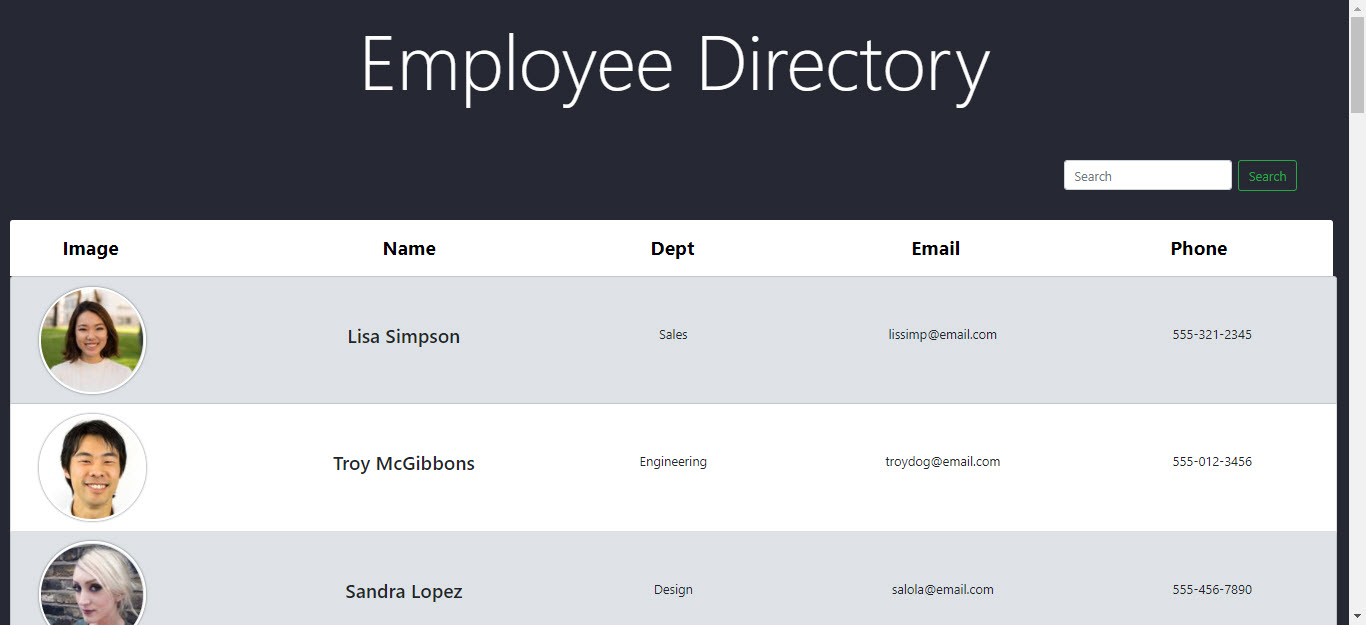
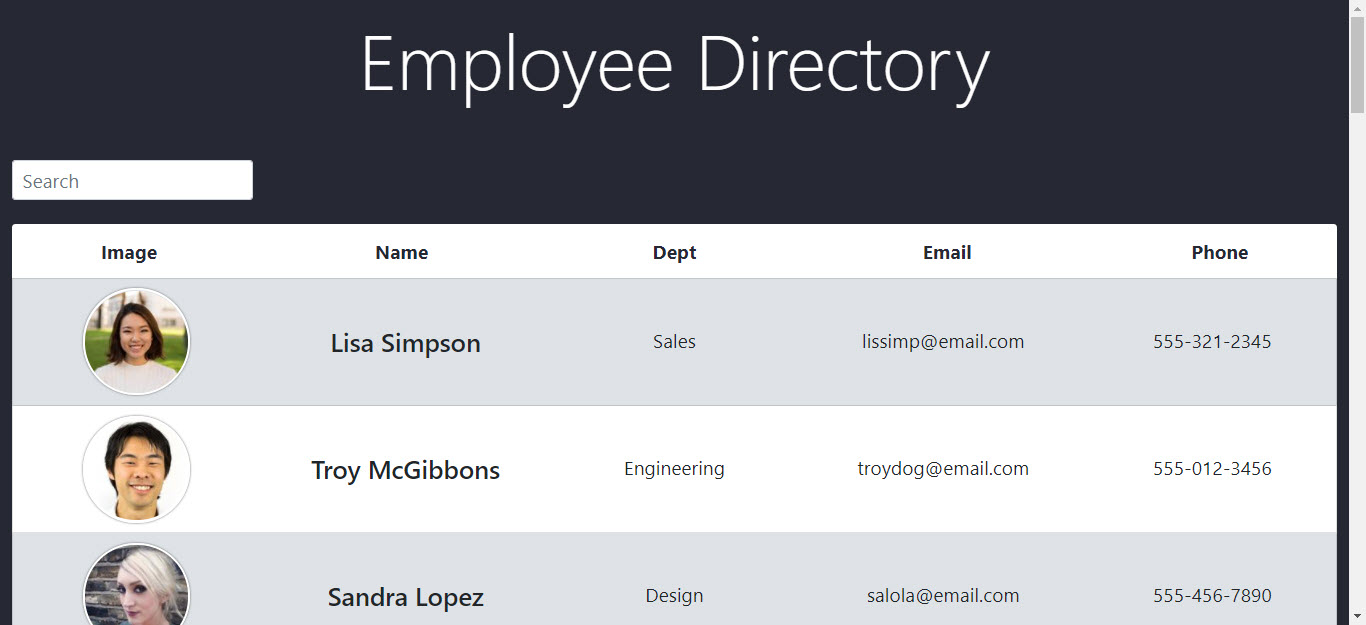
Fixed some styling and cleaned up stuff

diff --git a/src/components/ListHeader.js b/src/components/ListHeader.js
@@ -1,30 +1,52 @@
-import React from 'react'
-import '../../src/components/listHeader.css'
+import React from "react";
+import "../../src/components/listHeader.css";
 
 function ListHeader(props) {
-    return (
-        <div className="row col-12 list-header">
-            <ul className="list-group list-group-header">
-                <li className="list-group-header col-12">
-                    <div className="col-2">
-                        <button className="btn btn-dark text-center" onClick={props.sortID}>Image</button>
-                    </div>
-                    <div className="col-3">
-                        <button className="btn btn-dark text-center list-title" onClick={props.sortName} >Name</button>
-                    </div>
-                    <div className="col-2">
-                        <button className="btn btn-dark text-center list-title" onClick={props.sortDept}>Dept</button>
-                    </div>
-                    <div className="col-3">
-                        <button className="btn btn-dark text-center list-title" onClick={props.sortEmail}>Email</button>
-                    </div>
-                    <div className="col-2">
-                        <button className="btn btn-dark text-center list-title" onClick={props.sortPhone}>Phone</button>
-                    </div>
-                </li>
-            </ul>
-        </div >
-    )
+  return (
+    <div className="container col-12 list-header">
+      <ul className="list-group list-group-header">
+        <li className="list-group-header col-12">
+          <div className="col-2">
+            <button className="btn btn-dark text-center" onClick={props.sortID}>
+              Image
+            </button>
+          </div>
+          <div className="col-3">
+            <button
+              className="btn btn-dark text-center list-title"
+              onClick={props.sortName}
+            >
+              Name
+            </button>
+          </div>
+          <div className="col-2">
+            <button
+              className="btn btn-dark text-center list-title"
+              onClick={props.sortDept}
+            >
+              Dept
+            </button>
+          </div>
+          <div className="col-3">
+            <button
+              className="btn btn-dark text-center list-title"
+              onClick={props.sortEmail}
+            >
+              Email
+            </button>
+          </div>
+          <div className="col-2">
+            <button
+              className="btn btn-dark text-center list-title"
+              onClick={props.sortPhone}
+            >
+              Phone
+            </button>
+          </div>
+        </li>
+      </ul>
+    </div>
+  );
 }
 
-export default ListHeader
+export default ListHeader;

diff --git a/src/components/listHeader.css b/src/components/listHeader.css
@@ -1,53 +1,44 @@
-.list-group-item{
-    display: block;
-    margin: 0 auto;
-    width: 100%;
-    background-color: #fff;
-  }
-  
-  .col-2, .col-3{
-    float: left;
-    /* margin: 0; */
-  }
-  
-  .list-header{
-    margin-top: 75px;
-    padding-right: 0px;
-    height: 70px;
-
-  }
-
-  
-
-  .list-group-header {
-  width: 99%;
-  background: #fff;
-  list-style: none;
-  padding-top: 5px;
-  margin-left: 12px;
-  padding-right: 16px;
-  border-bottom-right-radius: 0px;
-  border-bottom-left-radius: 0px;
+.list-group-item {
+  display: block;
+  margin: 0 auto;
+  width: 100%;
+  background-color: #fff;
 }
 
-  .list-heading{
-      font-size: 24px;
-      padding-left: 18px;
-  }
+.col-2,
+.col-3 {
+  float: left;
+}
 
-  .btn-dark{
-    /* display: block;
-    margin: 0 auto;
-    width: 100%; */
-    font-size: 24px;
-    font-weight: bolder;
-    background-color: transparent;
-    color: black;
-    border: none;
-  }
+.list-header {
+  margin-top: 30px;
+}
 
-  .list-title{
-    display: block;
-    margin: 0 auto;
-    width: 100%; 
-  }
+.list-group-header {
+  background: #fff;
+  list-style: none;
+  padding: 5px;
+  border-bottom-right-radius: 0px;
+  border-bottom-left-radius: 0px;
+  border-top-left-radius: 5px;
+  border-top-right-radius: 5px;
+}
+
+.list-heading {
+  font-size: 24px;
+  padding-left: 18px;
+}
+
+.btn-dark {
+  font-size: 24px;
+  font-weight: bolder;
+  background-color: transparent;
+  color: #262833;
+  border: none;
+}
+
+.list-title {
+  display: block;
+  margin: 0 auto;
+  width: 100%;
+}

diff --git a/src/components/EmployeeDetail.js b/src/components/EmployeeDetail.js
@@ -1,30 +1,26 @@
 import React from "react";
-import "./style.css"
-
+import "./style.css";
 
 function EmployeeDetail(props) {
-    return (
-        
-        <li className="list-group-item">
-            <div className="col-2">
-                <img src={props.image} alt="employee" />
-            </div>
-            <div className="col-3 text">
-                <h2 className="employee-name text-center">{props.name}</h2>
-            </div>
-            <div className="col-2 text">
-                <p className="text-center">{props.department}</p>
-            </div>
-            <div className="col-3 text">
-                <p className="text-center">{props.email}</p>
-            </div>
-            <div className="col-2 text">
-                <p className="text-center">{props.phone}</p>
-            </div>
-        </li>
-        
-
-    )
+  return (
+    <li className="list-group-item">
+      <div className="col-2">
+        <img src={props.image} alt="employee" />
+      </div>
+      <div className="col-3 text">
+        <h2 className="employee-name text-center">{props.name}</h2>
+      </div>
+      <div className="col-2 text">
+        <p className="text-center">{props.department}</p>
+      </div>
+      <div className="col-3 text">
+        <p className="text-center">{props.email}</p>
+      </div>
+      <div className="col-2 text">
+        <p className="text-center">{props.phone}</p>
+      </div>
+    </li>
+  );
 }
 
-export default EmployeeDetail
+export default EmployeeDetail;

diff --git a/src/components/style.css b/src/components/style.css
@@ -1,32 +1,55 @@
-.list-group-item{
+.employee-header {
+  height: 200px;
+  background: #262833;
+  color: white;
+}
+
+.header-title {
+  padding-top: 15px;
+}
+
+.form-control {
+  height: 50px;
+  width: 30%;
+  font-size: 24px;
+}
+
+.list-group-item {
   display: block;
   margin: 0 auto;
   width: 100%;
 }
 
-.list-group-item:nth-child(odd){
+.list-group-item:nth-child(odd) {
   background-color: #dee2e6;
 }
 
-.col-2, .col-3{
+.col-2,
+.col-3 {
   float: left;
-  /* margin: 0; */
 }
 
-.text{
-  top: 35%
-}
-
-.employee-name{
-  font-size: 24px;
+.text {
+  top: 35%;
 }
 
 .list-group {
-  padding-left: 12px;
+  padding-left: 15px;
+  border-radius: 0px;
 }
 
-img{
+img {
   border-radius: 50%;
   box-shadow: 0px 0px 3px #696969;
-    border: 3px solid white
+  border: 3px solid white;
+  display: block;
+  margin: 0 auto;
+}
+
+.btn-dark {
+  width: 100%;
+}
+
+.btn-dark:hover {
+  width: 100%;
 }

diff --git a/src/components/EmployeeContainer.js b/src/components/EmployeeContainer.js
@@ -3,7 +3,6 @@ import EmployeeDetail from "./EmployeeDetail";
 import employees from "../employees.json";
 import ListHeader from "./ListHeader";
 import Header from "./Header";
-import "../components/search.css";
 
 class Employees extends Component {
   state = {
@@ -212,13 +211,6 @@ class Employees extends Component {
               value={this.state.search}
               onChange={this.handleInputChange}
             />
-            <button
-              className="btn btn-outline-success my-2 my-sm-0"
-              type="submit"
-              onClick={this.handleFormSubmit}
-            >
-              Search
-            </button>
           </form>
         </div>
         <ListHeader

diff --git a/src/index.js b/src/index.js
@@ -1,14 +1,14 @@
-import React from 'react';
-import ReactDOM from 'react-dom';
-import './index.css';
-import App from './App';
-import reportWebVitals from './reportWebVitals';
+import React from "react";
+import ReactDOM from "react-dom";
+import "./index.css";
+import App from "./App";
+import reportWebVitals from "./reportWebVitals";
 
 ReactDOM.render(
   <React.StrictMode>
     <App />
   </React.StrictMode>,
-  document.getElementById('root')
+  document.getElementById("root")
 );
 
 // If you want to start measuring performance in your app, pass a function

diff --git a/src/components/Header.js b/src/components/Header.js
@@ -1,12 +1,11 @@
 import React from "react";
-import './header.css'
 
-function Header(){
-    return (
-        <div className="container-fluid employee-header">
-            <h1 className="text-center header-title display-1">Employee Directory</h1>
-        </div>
-    )
+function Header() {
+  return (
+    <div className="container-fluid employee-header">
+      <h1 className="text-center header-title display-1">Employee Directory</h1>
+    </div>
+  );
 }
 
-export default Header
+export default Header;

diff --git a/src/App.js b/src/App.js
@@ -1,15 +1,12 @@
-import React from 'react'
-import Employees from './components/EmployeeContainer'
-import './App.css';
-
-
+import React from "react";
+import Employees from "./components/EmployeeContainer";
+import "./App.css";
 
 function App(props) {
   return (
-    <div className = "app">
+    <div className="app">
       <Employees />
     </div>
-
   );
 }
 

diff --git a/src/App.css b/src/App.css
@@ -1,3 +1,4 @@
-.app{
+.app {
   background: #262833;
+  font-size: 24px;
 }
